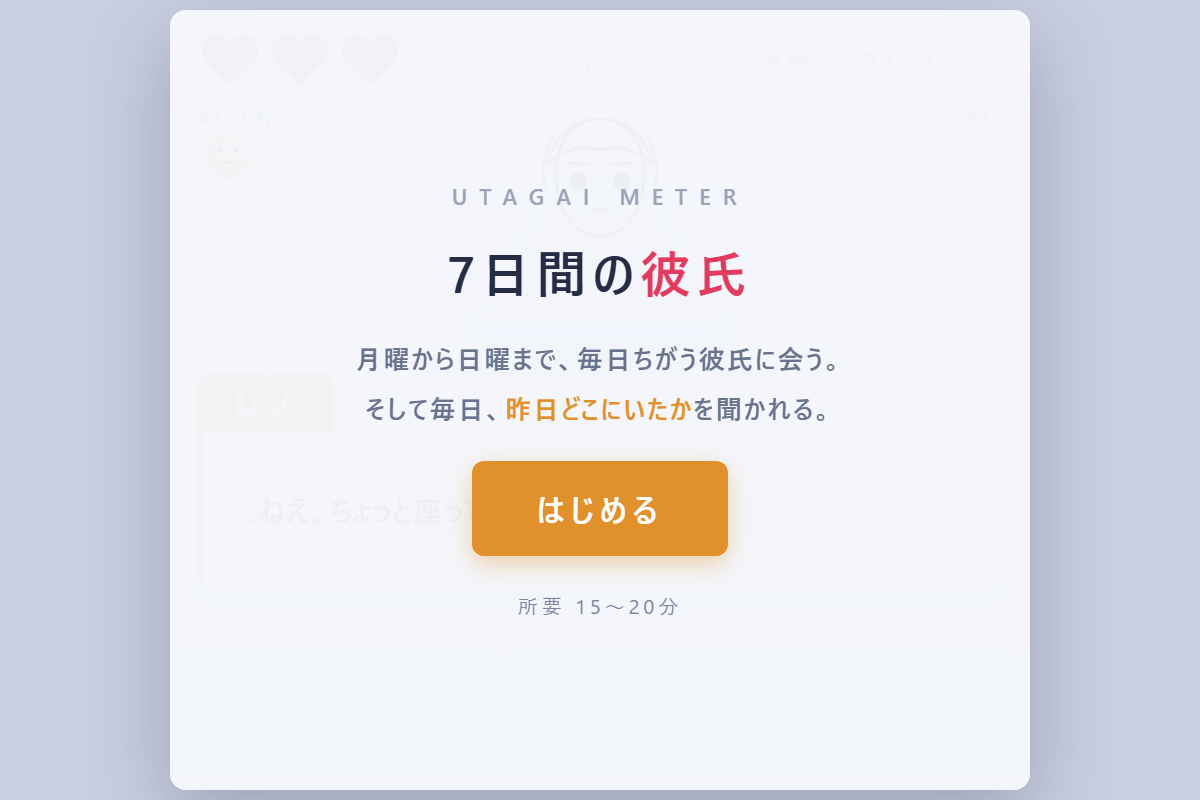
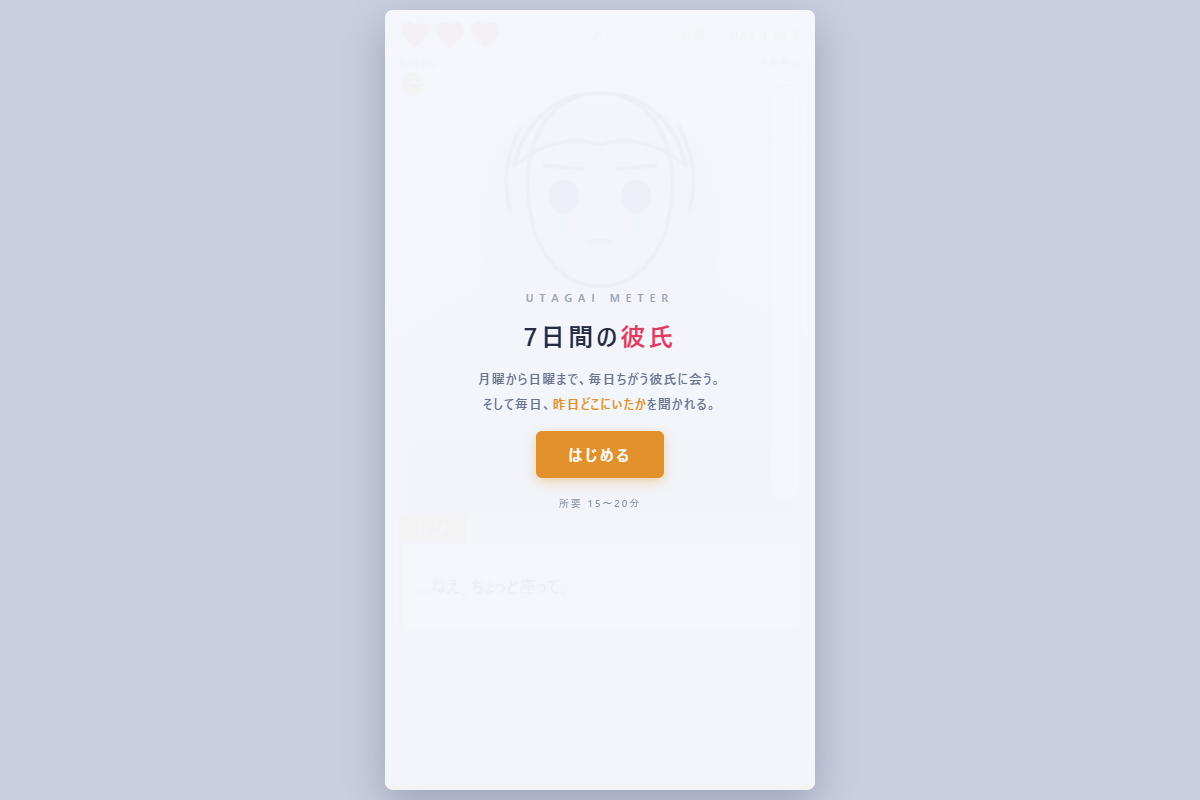
Lab: サムネを撮り直した

diff --git a/lab/data.js b/lab/data.js
@@ -141,7 +141,7 @@ const TOOLS = [
     desc: "スマホで恋愛ゲームの一場面を作る台。なまえとセリフを打って、背景とキャラのPNGを選ぶだけ。画面をタップすると文字がぽぽぽっと出て、長い文は自動で次のページへ送られる。立ちいちは ひだり／まんなか／みぎ、背景が変わるところだけ暗転が入る。作ったものはJSONで持ち出せる。",
     tags: ["スマホ", "ノベルゲーム", "立ち絵", "文字送り"],
     cat: "game",
-    thumb: "thumbs/koi-scene.svg",
+    thumb: "thumbs/koi-scene.png",
     url: "tools/koi-scene/index.html",
     status: "live"
   },
@@ -174,7 +174,7 @@ const TOOLS = [
     desc: "1枚の紙に、文字も写真も手書きも重ねて残せるノート。写真は貼り付け・ドラッグ・えらぶの3通りで入り、ペンは写真の上にも引ける。紙の右はしに見出しシールが並び、押すとその束へめくれる。1ページ＝1か月の予定表も同じ束に置けて、枡をさわればそのまま書ける。中の文字は束をまたいで探せて、新しい順・古い順・名前順に並べかえられる。書いたURLはそのまま押して飛べる。ゆびで紙を横にはらうとめくれ、はなした勢いで行き先が決まる。大きさは＋−でいつでも変えられ、どの画面でも同じ寸法で組まれる。読むだけの公開ページ（view.html）つき。",
     tags: ["手帳", "メモ", "手書き", "予定表", "検索", "スマホ", "公開ページ"],
     cat: "other",
-    thumb: "thumbs/techo.svg",
+    thumb: "thumbs/techo.png",
     url: "tools/techo/index.html",
     status: "live"
   },
@@ -185,7 +185,7 @@ const TOOLS = [
     desc: "ネームのはじめに使うコマ割りのひな型を、いくらでも作れる台。段とコマ数と傾きを決めると、右上から左下へ番号のふられたコマ割りが何枚も出てくる。ただの枠ではなく、そのコマの形に合った大きさで素体（ミニキャラ／頭身あり）がすでに入っているので、絵の大きさに迷わない。コマを押せば下にひきだしが開き、だれ・顔（18種）・ポーズ（12種）・大きさ（顔アップ〜全身）・左右・2人目を選んでセリフを打てる。セリフは1行＝1コマでまとめて流しこめて、そのまま簡易マンガになる。ページごとPNG・表ぜんぶPNG・印刷、作りかけはJSONで保存できる。",
     tags: ["ネーム", "コマ割り", "素体", "ミニキャラ", "PNG書き出し", "印刷"],
     cat: "manga",
-    thumb: "thumbs/koma-wari.svg",
+    thumb: "thumbs/koma-wari.png",
     url: "tools/koma-wari/index.html",
     status: "live"
   },
@@ -196,7 +196,7 @@ const TOOLS = [
     desc: "キャラの動きと表情を確かめる台。3Dのモデルは外から読まず、ページの中で組み立てている。",
     tags: ["3D", "モデル", "モーション", "表情", "リップシンク"],
     cat: "anime",
-    thumb: "thumbs/chara-kobo.svg",
+    thumb: "thumbs/chara-kobo.png",
     url: "tools/chara-kobo/index.html",
     status: "live"
   },
@@ -207,7 +207,7 @@ const TOOLS = [
     desc: "閉じている間も進む放置ゲーム。昼はドームの畑・発電・植物園・ろ過装置が自動で回り、手伝うとミニゲームが始まって一気に増える。夜だけ外に出られて、灰そうじと発掘。掘ると昔の道具が出てきてドームが強くなる。なかまは5人、それぞれ得意な仕事がある。",
     tags: ["放置ゲーム", "ミニゲーム", "スマホ", "こども"],
     cat: "game",
-    thumb: "thumbs/project-guardian.svg",
+    thumb: "thumbs/project-guardian.png",
     url: "tools/project-guardian/index.html",
     status: "live"
   },
@@ -218,7 +218,7 @@ const TOOLS = [
     desc: "ブリスターパック風キーホルダー（1mm＋3mm＋3mmの3層アクリル）の版下を組む台。台紙の絵と文字、中身パーツ、ビス穴の位置を決めると、パーツの透過PNGから輪郭をひろって白フチ付きのカット線と2枚目の窓を作る。フチの余白・穴とのあき・細い所の太さ・解像度を見て直す所を出す。台紙PNG、パーツPNG、原寸のカット線SVG、仕様メモを書き出せる。",
     tags: ["アクリル", "グッズ", "版下", "カット線", "SVG書き出し"],
     cat: "other",
-    thumb: "thumbs/blister-design.svg",
+    thumb: "thumbs/blister-design.png",
     url: "tools/blister-design/index.html",
     status: "live"
   },
@@ -229,7 +229,7 @@ const TOOLS = [
     desc: "打ったキーの横の位置に合わせて、左右の手が動くキャラクターの台。タブレットモードでは、ペンを持った手の絵がマウスについてくる。しばらく何もしないと待機の絵1枚にかわる。PSDを落とすとレイヤー名で振り分け、非表示の差分も名前が合えば使う。位置はステージの上で絵をつかんで合わせる。ひな形のPSDつき。",
     tags: ["配信", "オーバーレイ", "キーボード", "PSD", "差し替え"],
     cat: "other",
-    thumb: "thumbs/bongo.svg",
+    thumb: "thumbs/bongo.png",
     url: "tools/bongo/index.html",
     status: "live"
   },
@@ -251,7 +251,7 @@ const TOOLS = [
     desc: "公開ページのスケジュールと同じ並び・同じ見た目で、Notion から取り込んだ予定を月ごとに見る台。画像のある予定はそのまま絵で出る。土日祝はお休みとして色を変え、祝日の名前も添える。ちがうのは書ける所で、日付を右クリックすればその場で予定を足せて、予定をつつけば時こくと画像を差し替えられる。足した分はこの端末の中だけに持つ。月ごと1枚のPNGに書き出せる。",
     tags: ["Notion", "予定", "カレンダー", "画像書き出し"],
     cat: "other",
-    thumb: "thumbs/task-calendar.svg",
+    thumb: "thumbs/task-calendar.png",
     url: "tools/task-calendar/index.html",
     status: "live"
   },
@@ -262,7 +262,7 @@ const TOOLS = [
     desc: "GB・BBの動画から背景を抜いて、素材ごとに分け、同じ絵に戻る区間をループにする。切り出す範囲とコマごとの表示時間も出す。APNG・連番PNG・スプライトシート・WebMで書き出せる。",
     tags: ["GB素材", "クロマキー", "ループ素材", "APNG"],
     cat: "anime",
-    thumb: "thumbs/gb-loop.svg",
+    thumb: "thumbs/gb-loop.png",
     url: "tools/gb-loop/index.html",
     status: "live"
   },
@@ -284,7 +284,7 @@ const TOOLS = [
     desc: "写真の中から 残す色を 1つ えらび、ほかを モノクロに する。色の はばと ぼかし、効かせる 範囲（円・四角・囲む・塗る）、モノクロの トーンを 決められる。カメラの 映像に かけながら 撮ることも できる。フレーム・色見本・カラーコード付きで、比率を えらんで 書き出す。",
     tags: ["写真", "色", "モノクロ", "スマホ"],
     cat: "other",
-    thumb: "thumbs/nokoshi-iro.svg",
+    thumb: "thumbs/nokoshi-iro.png",
     url: "tools/nokoshi-iro/index.html",
     status: "live"
   },
